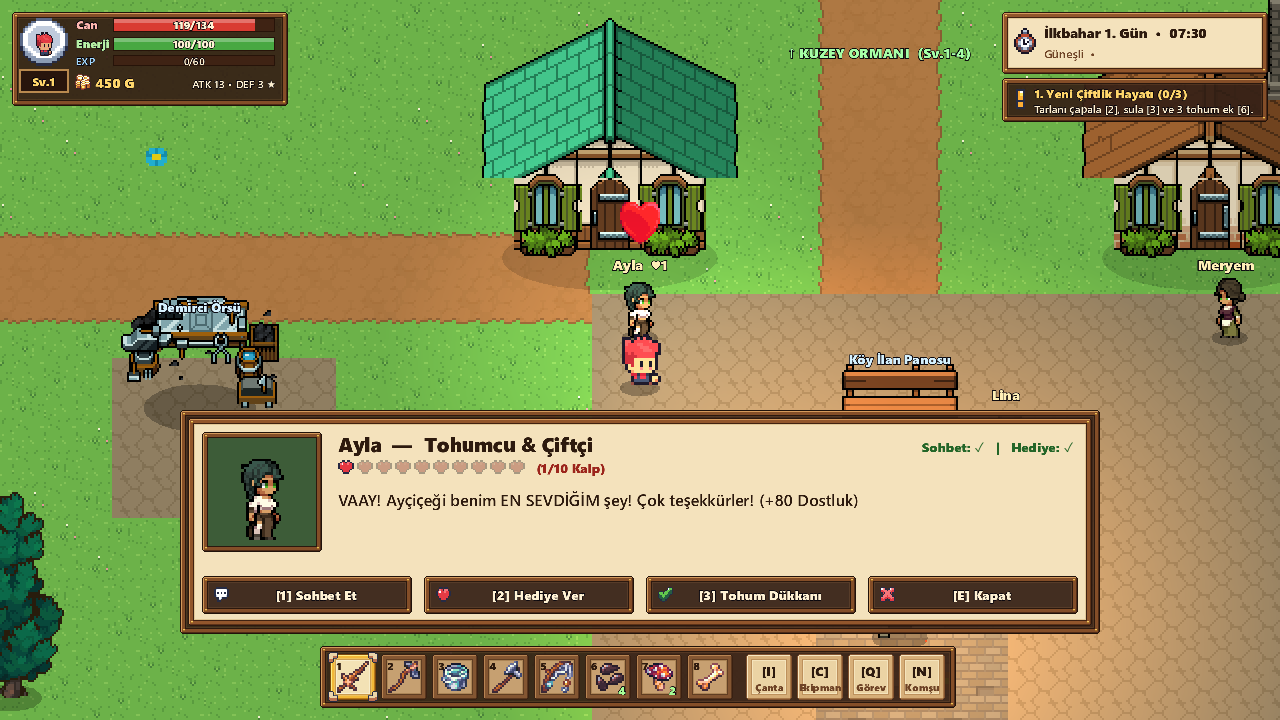
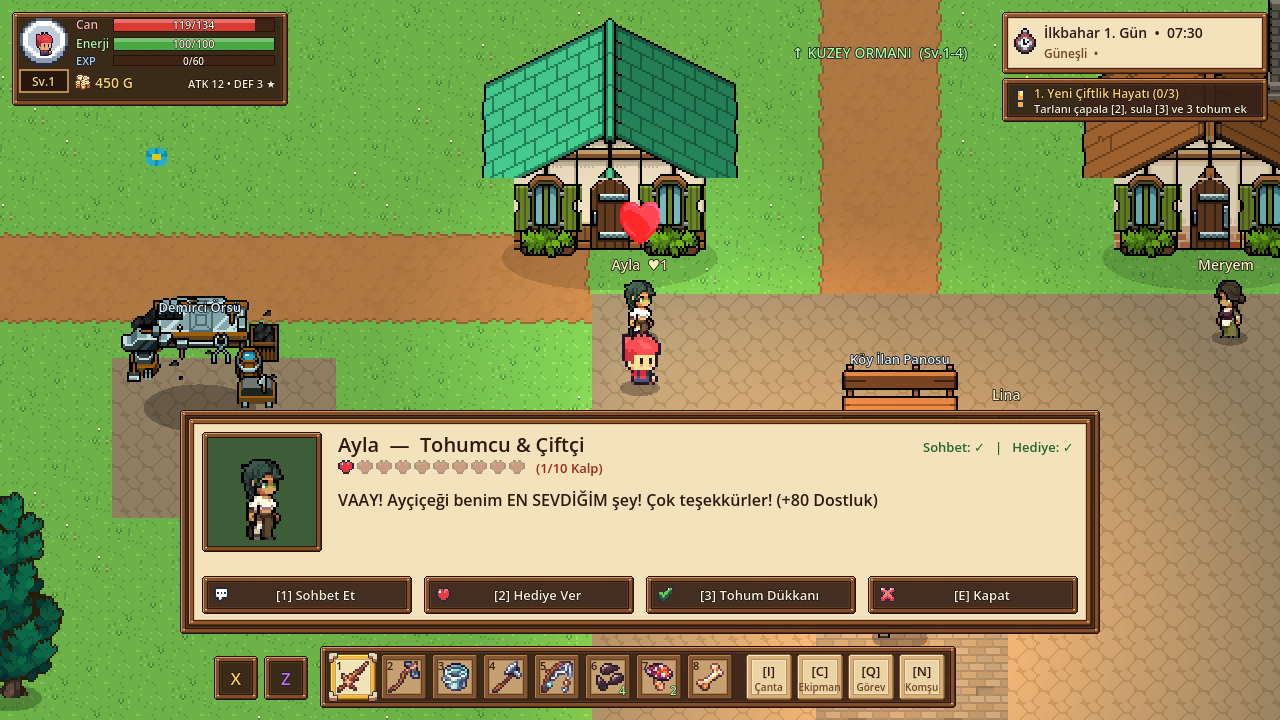
fix+feat: oyunu açılır hale getir, 4. boss ve yarım kalan içerikleri tamamla
- SpiritValley.gd derleme hatası düzeltildi (oyun hiç açılmıyordu)
- Kadim Boşluk Hükümdarı göl kıyısından yeni Boşluk Yarığı arenasına taşındı;
  Malakor yenilene kadar mühürlü, hikayeye 11. bölüm eklendi
- Rastgele silahların boss silahı (Grog Baltası, Boşluk Tırpanı/Asa) çıkması engellendi
- Parşömenler satılıyor/üretiliyor/düşüyor; Buz Kasırgası gerçekten yavaşlatıyor
- Buket (4♥) ve Ay Taşı Kolyesi (6♥) kuralları, hayat arkadaşı + sabah hediyesi;
  hediye menüsü artık hediye eşyalarını gösteriyor
- Demircide 4. boss silahları; Büyü Asası Z bekleme süresini yarıya indirir
- Z yeteneğine bekleme süresi, X/Z bekleme göstergesi
- Otomatik teste V5 kontrolleri ve 2 yeni ekran görüntüsü

diff --git a/README.md b/README.md
@@ -13,7 +13,11 @@ Godot 4.7 ile geliştirilmiş; **çiftlik yaşamı**, **girilebilir ve özelleş
 - **Aksiyon RPG & Boss Avı**:
   - 5 zırh kademesine göre görünümü değişen kahraman, takla kaçışı (`[Boşluk]`), Dönen Kılıç yeteneği (`[X]`) ve savaşçı dostun Karabaş (`[R]` kemik atışı).
   - Kuzey Harabesi (**Grog**), Kanlı Mahzen (**Korgath**) ve Cehennem Sunağı (**Malakor**) boss savaşları; demirci örsünde `+1..+5` geliştirme ve efsanevi boss ekipmanı dövme.
+  - **Gizli 4. Boss — Boşluk Yarığı**: Malakor yenilince Gölge Ormanı'nın güneyinde mühür kırılır ve **Kadim Boşluk Hükümdarı** uyanır. Ganimetiyle *Kadim Boşluk Tırpanı* (%8 can emme) veya *Yıldız Işığı Büyü Asası* (Mistik Dalga bekleme süresi yarıya iner) dövülür.
+  - **Mistik Dalga (`[Z]`)**: 20 enerjiyle çevreye büyü patlaması (6 sn bekleme). X/Z bekleme süreleri hotbar'ın solunda görünür.
+  - **Parşömenler**: Alev Topu ve Buz Kasırgası (4 sn %60 yavaşlatma). Bilge Ozan satar, evde simya ile balçık jelinden yapılır, Boşluk Avcılarından düşer.
 - **Köy Komşuları**: Ayla, Demir, Meryem, Bilge Ozan, Kaptan Bram ve Lina ile günlük sohbet, hediye keşfi ve 3♥ / 6♥ kalıcı avantajlar.
+  - **Hayat Arkadaşı**: 4♥ komşuya *Vadi Çiçek Buketi* (Ayla), ardından 6♥ olunca *Ay Taşı Kolyesi* (Lina) ver. Hayat arkadaşın her sabah ev sandığına hediye bırakır.
 
 ## Ekran Görüntüleri
 
@@ -29,6 +33,10 @@ Godot 4.7 ile geliştirilmiş; **çiftlik yaşamı**, **girilebilir ve özelleş
 | :---: | :---: |
 | ![Komşu Diyalogu](screenshots/v4_06_stardew_dialog.png) | ![Boss Savaşı](screenshots/v4_09_boss_hud.png) |
 
+| Boşluk Yarığı (4. Boss) | Hayat Arkadaşı |
+| :---: | :---: |
+| ![Boşluk Yarığı](screenshots/v5_10_void_rift.png) | ![Hayat Arkadaşı](screenshots/v5_11_partner_social.png) |
+
 ## Kontroller
 
 | Tuş | İşlev |
@@ -37,6 +45,7 @@ Godot 4.7 ile geliştirilmiş; **çiftlik yaşamı**, **girilebilir ve özelleş
 | `Sol Tık` / `J` | Seçili aleti kullan / Saldır |
 | `Boşluk` | Kaçınma taklası (dışarıda) |
 | `X` | Dönen Kılıç alan yeteneği |
+| `Z` | Mistik Dalga büyü patlaması |
 | `E` / `Sağ Tık` | Konuş, hasat et, kapı/istasyon etkileşimi |
 | `B` | Ev Düzenleme & Dekorasyon menüsü (evdeyken) |
 | `1 - 8` | Hotbar yuvası seç (`6`/`7` tekrar basınca tohum/iksir değiştir) |
